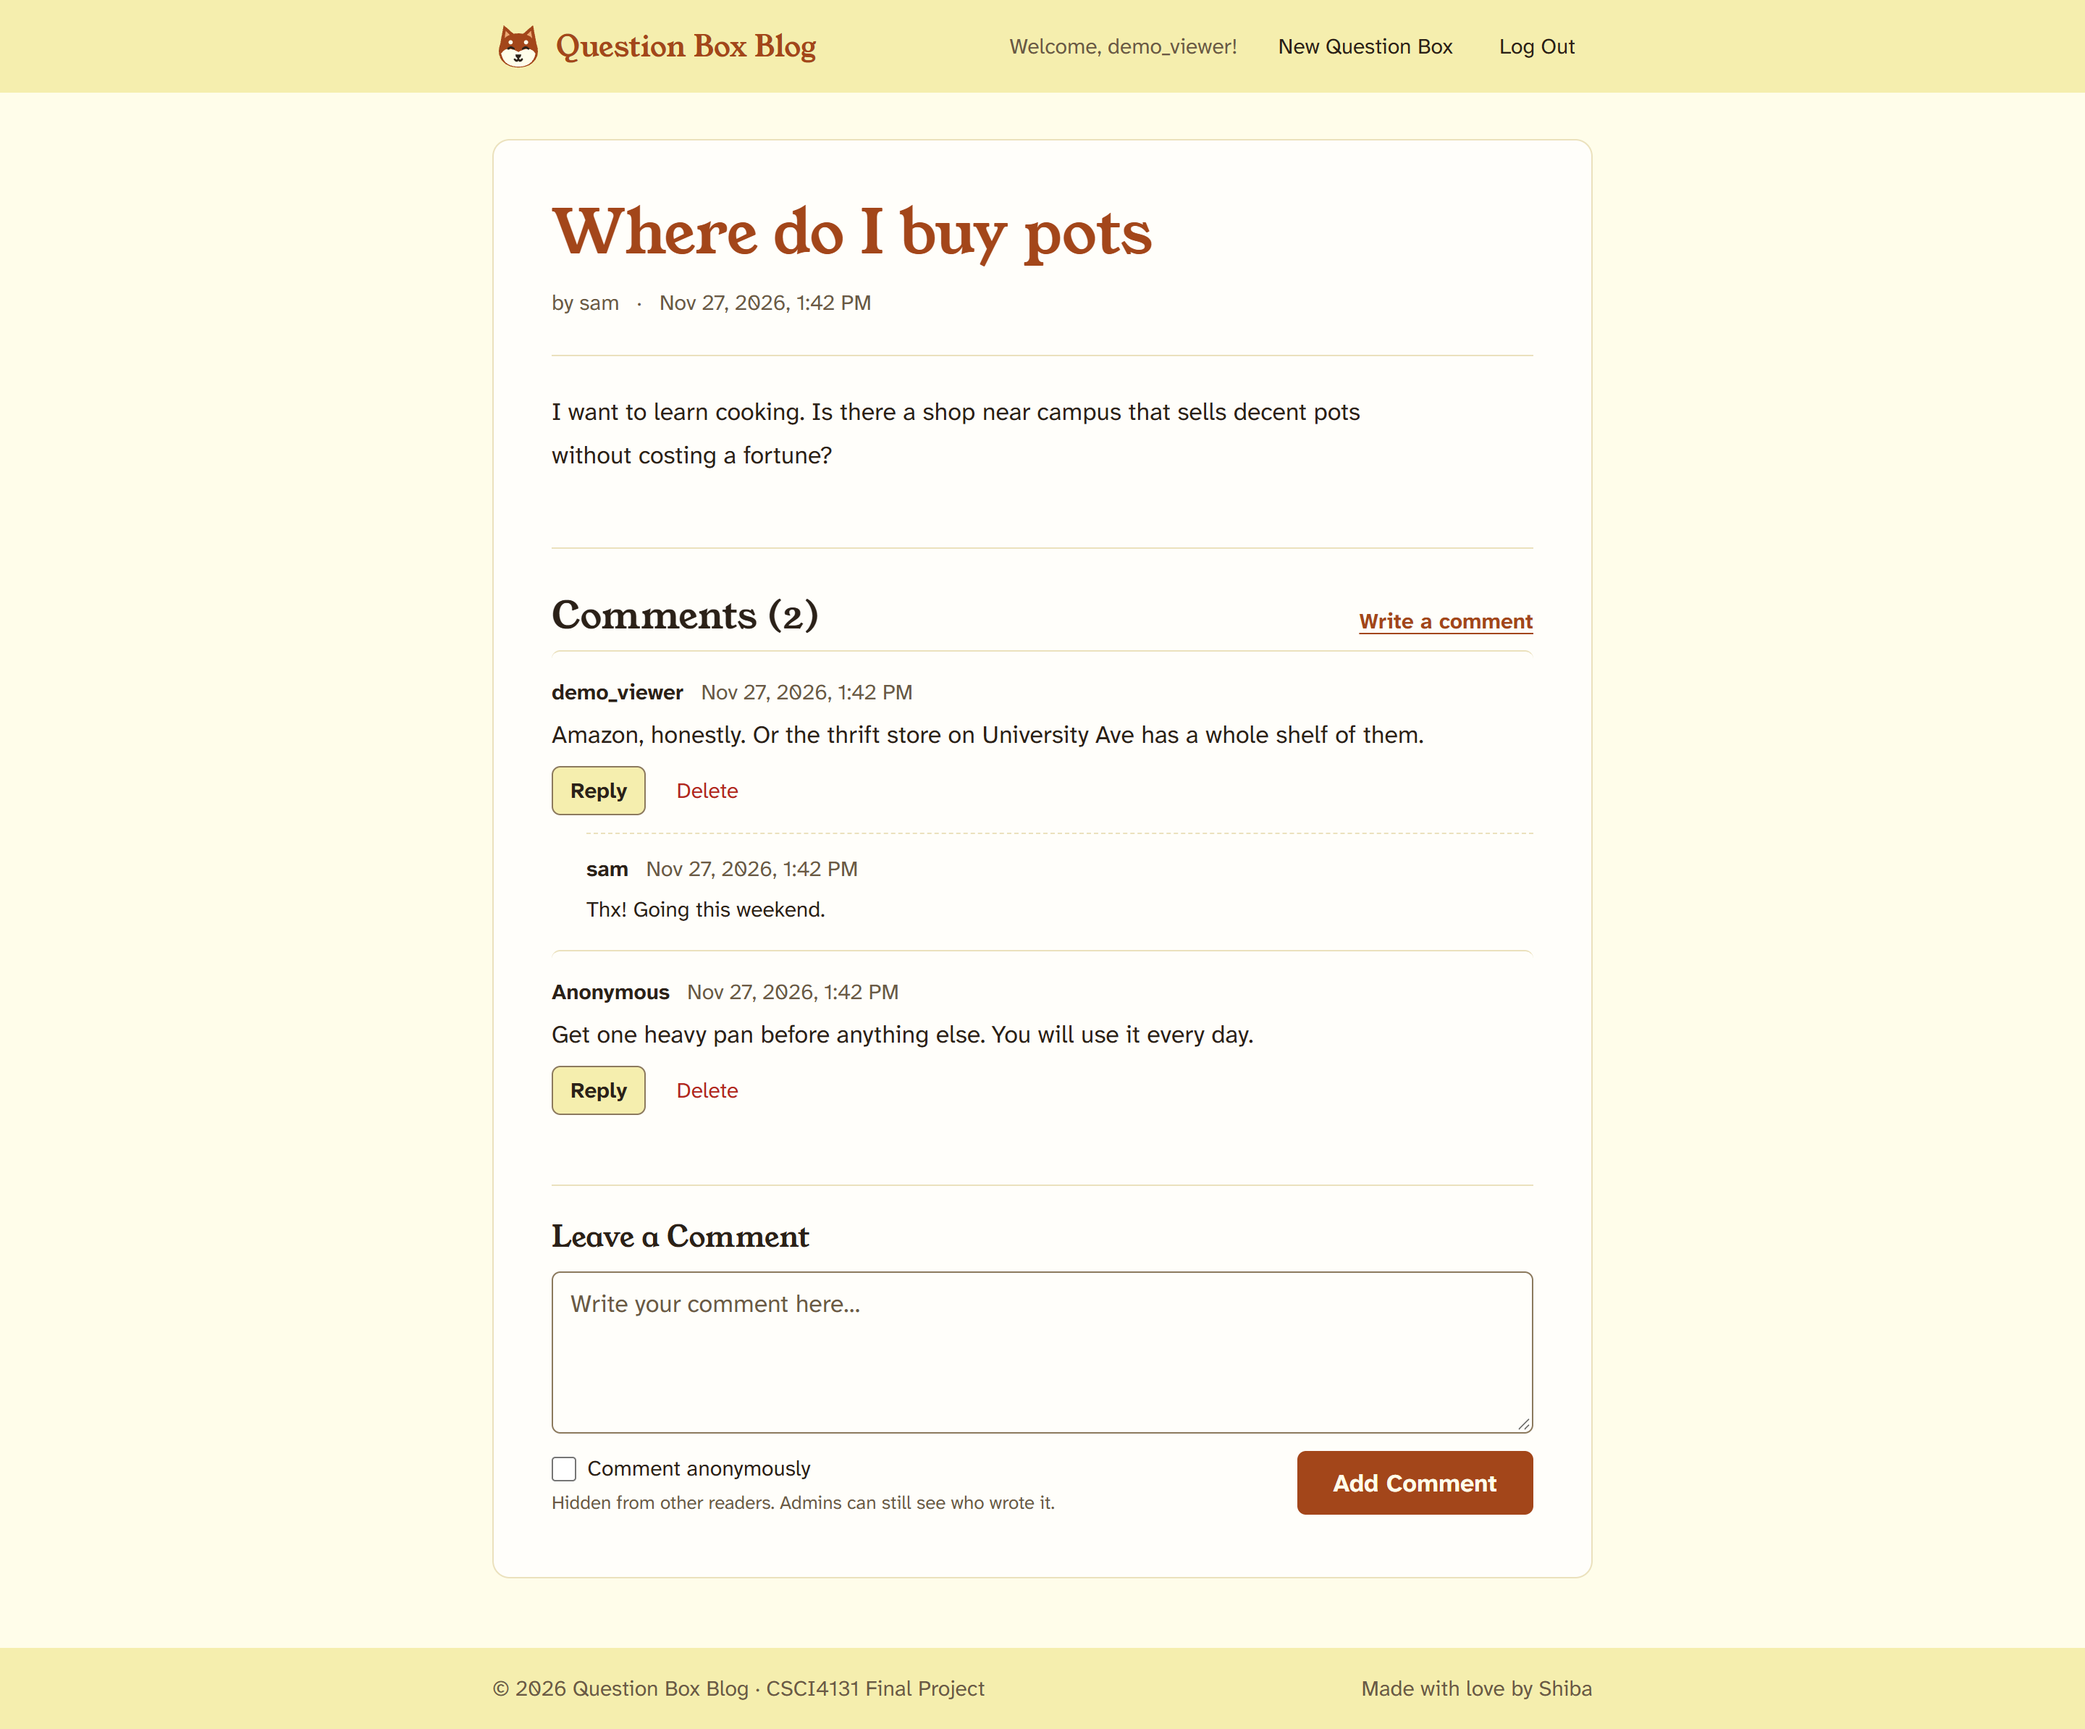
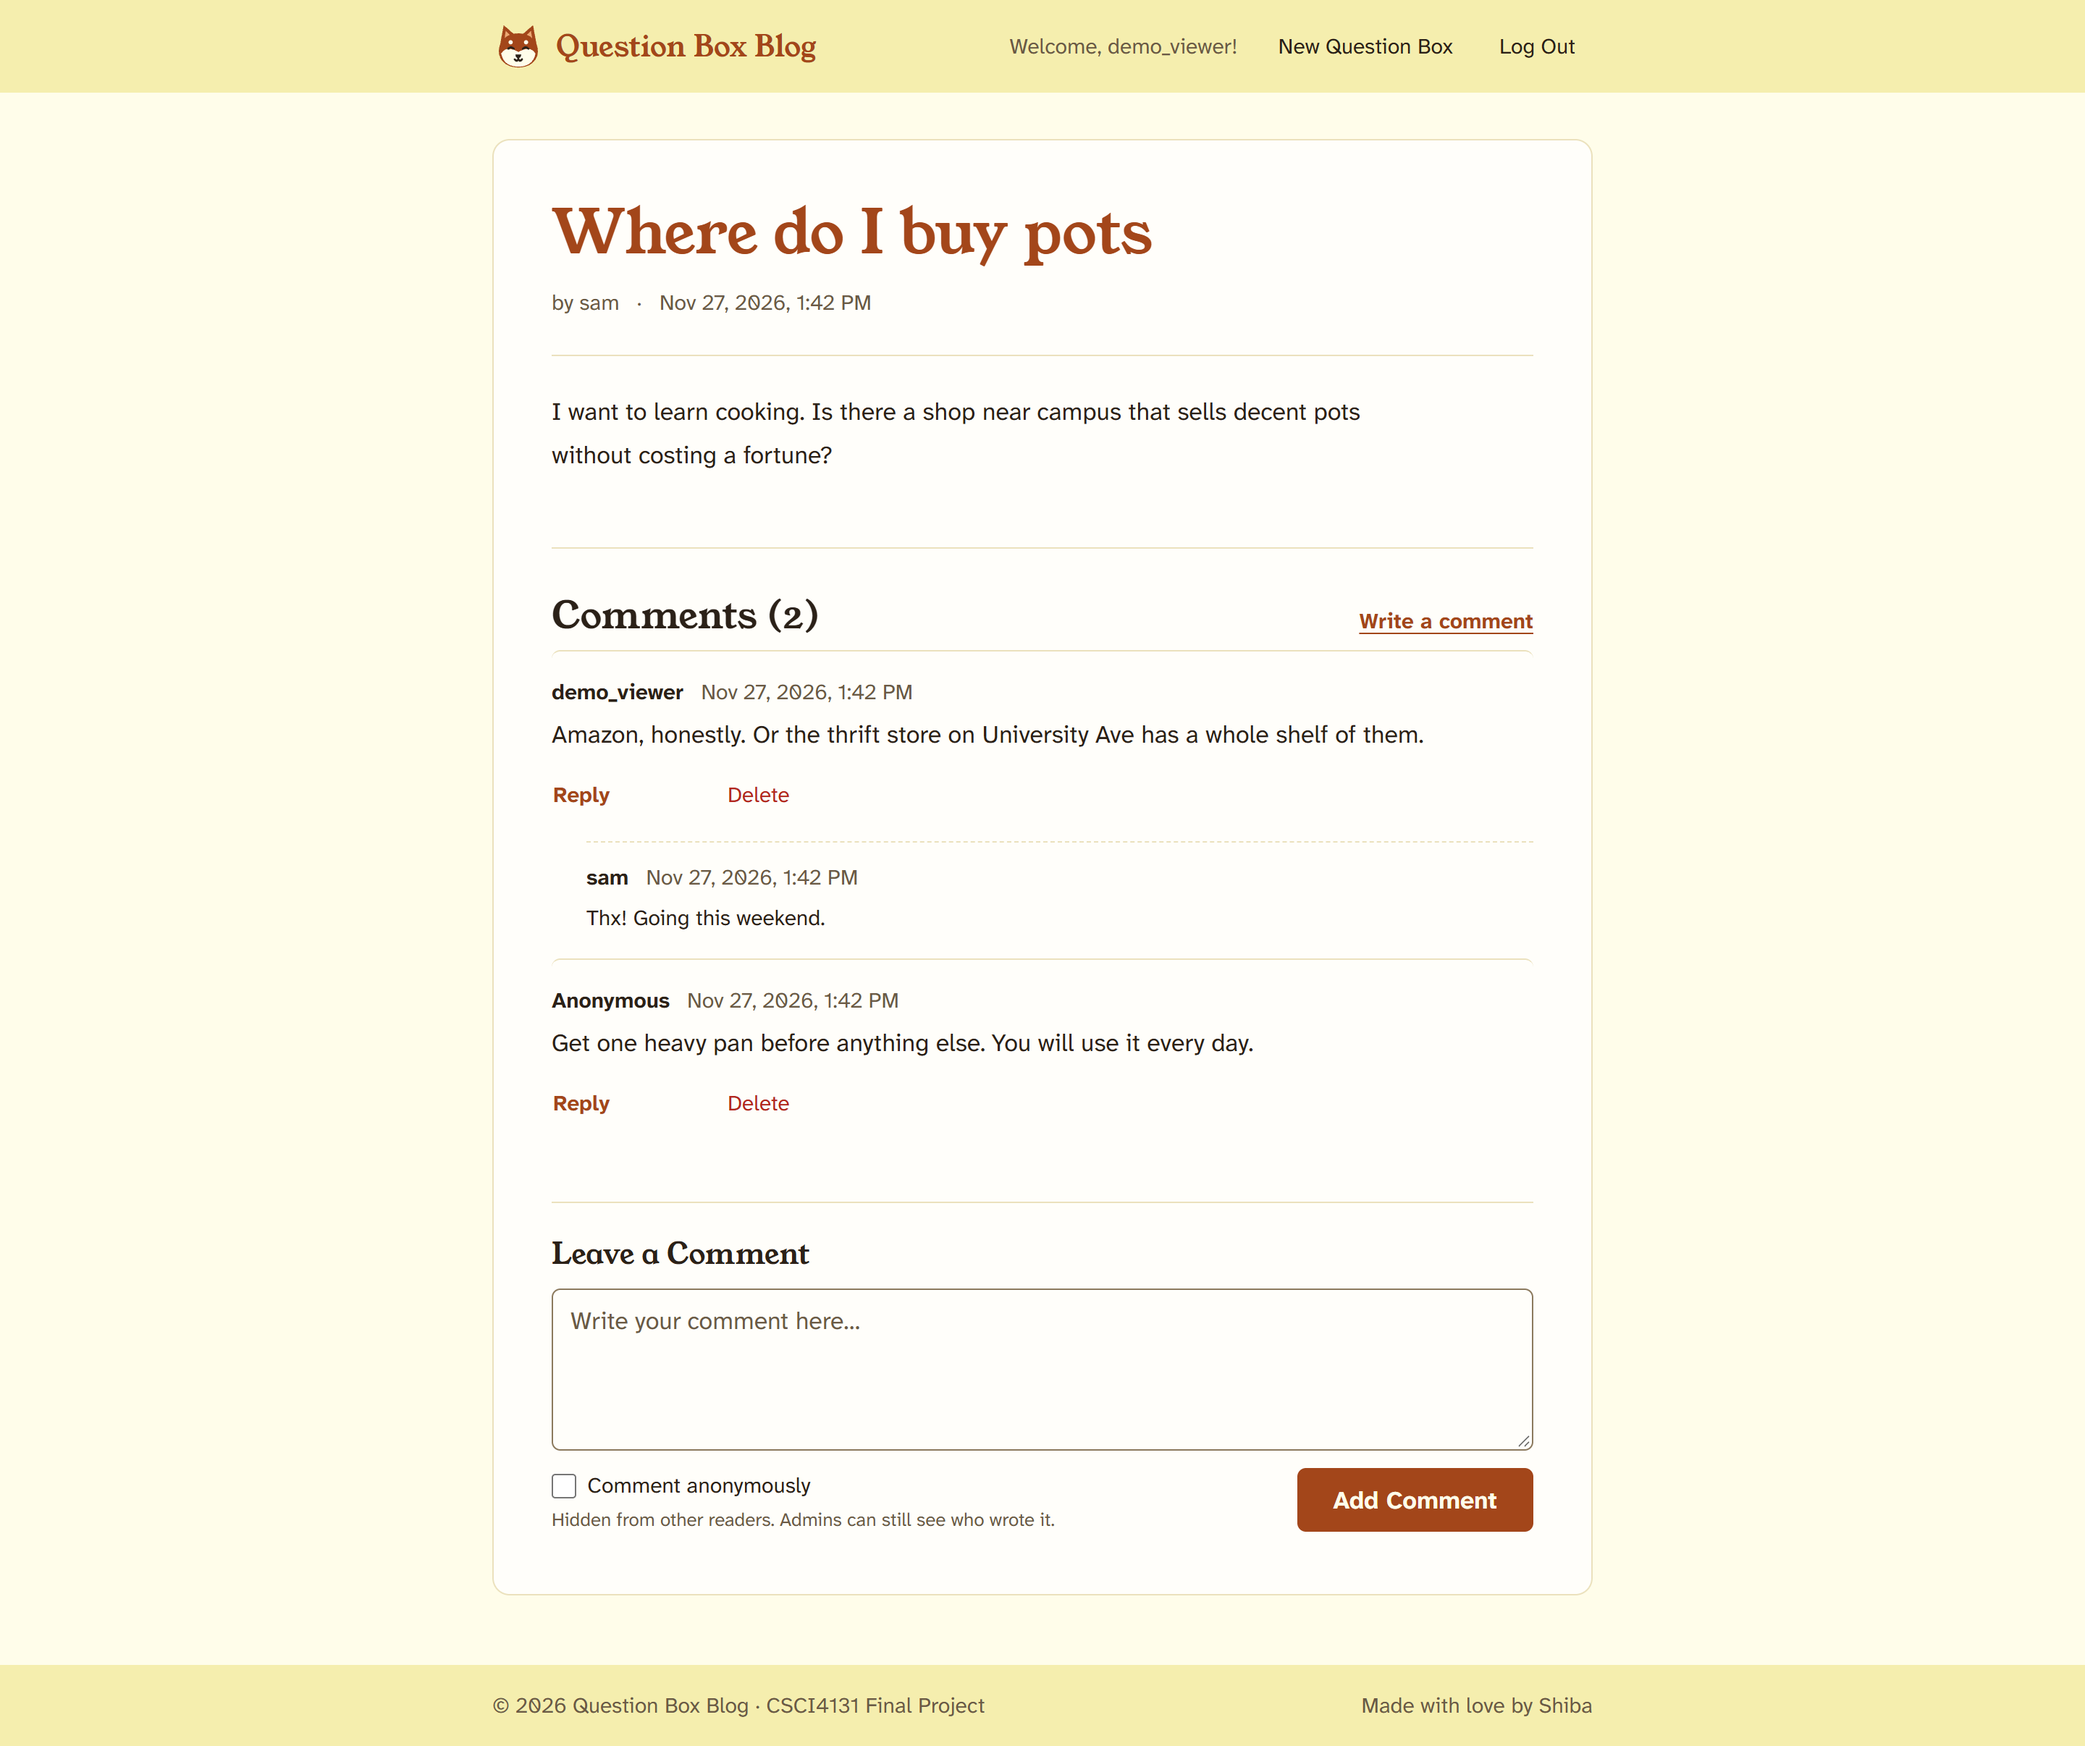
style: Quiet the thread actions and keep Reply in place
From the re-run critique (27/40), P1 "Reply buttons dominate the
thread", via /impeccable distill:

- Reply is a quiet red-tan text button (sesame fill on hover/focus), like
  the red text Delete, so a comment outweighs its actions. Both keep a
  40px hit area.
- Opening the reply form no longer hides Reply. It stays in place as a
  muted "Replying..." (aria-expanded) and reserves that width, so Delete
  never moves under the pointer.
- Reply and Delete accessible names include the author
  ("Reply to comment by demo_viewer") so they're distinguishable.
- DESIGN.md button roles and the post detail screenshots updated.

diff --git a/resources/js/main.js b/resources/js/main.js
@@ -290,13 +290,19 @@ document.addEventListener('DOMContentLoaded', () => {
         return [ header, reveal ];
     }
 
+    // Names used in accessible labels so each Reply/Delete is distinct.
+    function authorName(item) {
+        return item.is_anonymous ? 'Anonymous' : item.username;
+    }
+
     function buildReply(reply) {
         const replyEl = el('div', 'reply');
         replyEl.dataset.replyId = reply.id;
         const deleteBtn = el('button', 'btn btn-small btn-delete-reply', 'Delete');
         deleteBtn.type = 'button';
         deleteBtn.dataset.replyId = reply.id;
-        deleteBtn.setAttribute('aria-label', 'Delete reply');
+        deleteBtn.setAttribute('aria-label',
+                               `Delete reply by ${authorName(reply)}`);
         const actions = el('div', 'reply-actions');
         actions.append(deleteBtn);
         replyEl.append(...authorHeader('reply', reply),
@@ -314,15 +320,20 @@ document.addEventListener('DOMContentLoaded', () => {
             el('button', 'btn btn-small btn-delete-comment', 'Delete');
         deleteBtn.type = 'button';
         deleteBtn.dataset.commentId = comment.id;
-        deleteBtn.setAttribute('aria-label', 'Delete comment');
+        deleteBtn.setAttribute('aria-label',
+                               `Delete comment by ${authorName(comment)}`);
         // The author of a comment can always reply to it.
         const replyBtn = el('button', 'btn btn-small btn-reply', 'Reply');
         replyBtn.type = 'button';
         replyBtn.dataset.commentId = comment.id;
-        replyBtn.setAttribute('aria-label', 'Reply to comment');
+        replyBtn.setAttribute('aria-label',
+                              `Reply to comment by ${authorName(comment)}`);
+        replyBtn.setAttribute('aria-expanded', 'false');
+        replyBtn.setAttribute('aria-controls', `reply-form-${comment.id}`);
         actions.append(replyBtn, deleteBtn);
 
         const container = el('div', 'reply-form-container');
+        container.id = `reply-form-${comment.id}`;
         container.hidden = true;
         const form = el('form', 'reply-form');
         form.dataset.commentId = comment.id;
@@ -370,7 +381,10 @@ document.addEventListener('DOMContentLoaded', () => {
         const container = commentEl.querySelector('.reply-form-container');
         const replyBtn = commentEl.querySelector('.btn-reply');
         container.hidden = false;
-        if (replyBtn) replyBtn.hidden = true;
+        if (replyBtn) {
+            replyBtn.setAttribute('aria-expanded', 'true');
+            replyBtn.textContent = 'Replying…';
+        }
         if (focus) container.querySelector('.reply-input').focus();
     }
 
@@ -384,7 +398,8 @@ document.addEventListener('DOMContentLoaded', () => {
         clearStatus(form.querySelector('.form-status'));
         drafts.remove(replyDraftKey(commentEl.dataset.commentId));
         if (replyBtn) {
-            replyBtn.hidden = false;
+            replyBtn.setAttribute('aria-expanded', 'false');
+            replyBtn.textContent = 'Reply';
             replyBtn.focus();
         }
     }

diff --git a/resources/css/main.css b/resources/css/main.css
@@ -758,10 +758,44 @@ a:hover {
   margin-top: var(--space-2);
 }
 
-/* A quiet Delete with nothing before it lines up with the text above. */
-.reply-actions > .btn-delete-reply:first-child,
-.comment-actions > .btn-delete-comment:first-child {
+/* Thread actions are quiet text buttons, so a comment outweighs its
+ * actions. The first one lines up with the text above it, and each keeps a
+ * 40px hit area even though nothing is drawn around it at rest. */
+.comment-actions > .btn:first-child,
+.reply-actions > .btn:first-child {
   margin-left: calc(-1 * var(--space-3));
+}
+
+.comment-actions .btn,
+.reply-actions .btn {
+  min-height: 40px;
+}
+
+.btn.btn-reply {
+  /* Wide enough for "Replying…", so Delete doesn't move when it swaps in. */
+  min-width: 7.5em;
+  justify-content: flex-start;
+  background-color: transparent;
+  border-color: transparent;
+  color: var(--color-accent);
+}
+
+.btn.btn-reply:hover,
+.btn.btn-reply:focus-visible {
+  background-color: var(--color-secondary);
+  border-color: var(--color-border-strong);
+  color: var(--color-ink);
+}
+
+/* While its form is open, Reply stays in place as a quiet "Replying…"
+ * marker, so Delete never slides under the pointer. */
+.btn.btn-reply[aria-expanded="true"],
+.btn.btn-reply[aria-expanded="true"]:hover {
+  background-color: transparent;
+  border-color: transparent;
+  color: var(--color-ink-muted);
+  font-weight: var(--weight-regular);
+  cursor: default;
 }
 
 .reply-rule {

diff --git a/DESIGN.md b/DESIGN.md
@@ -255,8 +255,9 @@ Gently rounded and consistent. The content surface and the dialog have 12px corn
 Three roles that are distinct in fill as well as hue, so they can't be confused at a glance.
 - **Shape:** 6px corners, a 1px border, bold label. Links and buttons share one box (`inline-flex`, explicit line height, 44px min height; 34px for `.btn-small`), so Edit and Delete line up.
 - **Primary:** a red-tan fill with cream text (5.9:1). Use one per view: Publish / Save Changes, Log In, Register, Add Comment, Add Reply, Write the First One, Go Back Home. Hover deepens to Deep Red-Tan.
-- **Secondary:** the default button. A sesame-yellow fill, Shiba Black text and a Whisker outline. Used for Edit, Reply, Cancel and pagination. Hover goes to Deep Sesame.
+- **Secondary:** the default button. A sesame-yellow fill, Shiba Black text and a Whisker outline. Used for Edit, Cancel and pagination. Hover goes to Deep Sesame.
 - **Destructive:** on a question box, a paper fill with a Warning Red outline and text, filling solid red on hover. On comments and replies, a quiet red text button that only gains its outline on hover or focus, and it always comes after Reply.
+- **Thread actions (Reply, comment/reply Delete):** quiet text buttons, so a comment outweighs its actions. Reply is red-tan text that takes the sesame fill on hover or focus; Delete is red text that takes its outline on hover or focus. Both keep a 40px hit area. While its form is open, Reply stays in place as a muted "Replying…" (`aria-expanded="true"`) and reserves that width, so Delete never moves. Accessible names include the author ("Reply to comment by demo_viewer").
 - **States:** hover, `:active` (1px press), `:focus-visible` (2px Deep Red-Tan outline, offset 2px) and `:disabled` (60% opacity, not-allowed cursor).
 
 ### Cards / Containers
